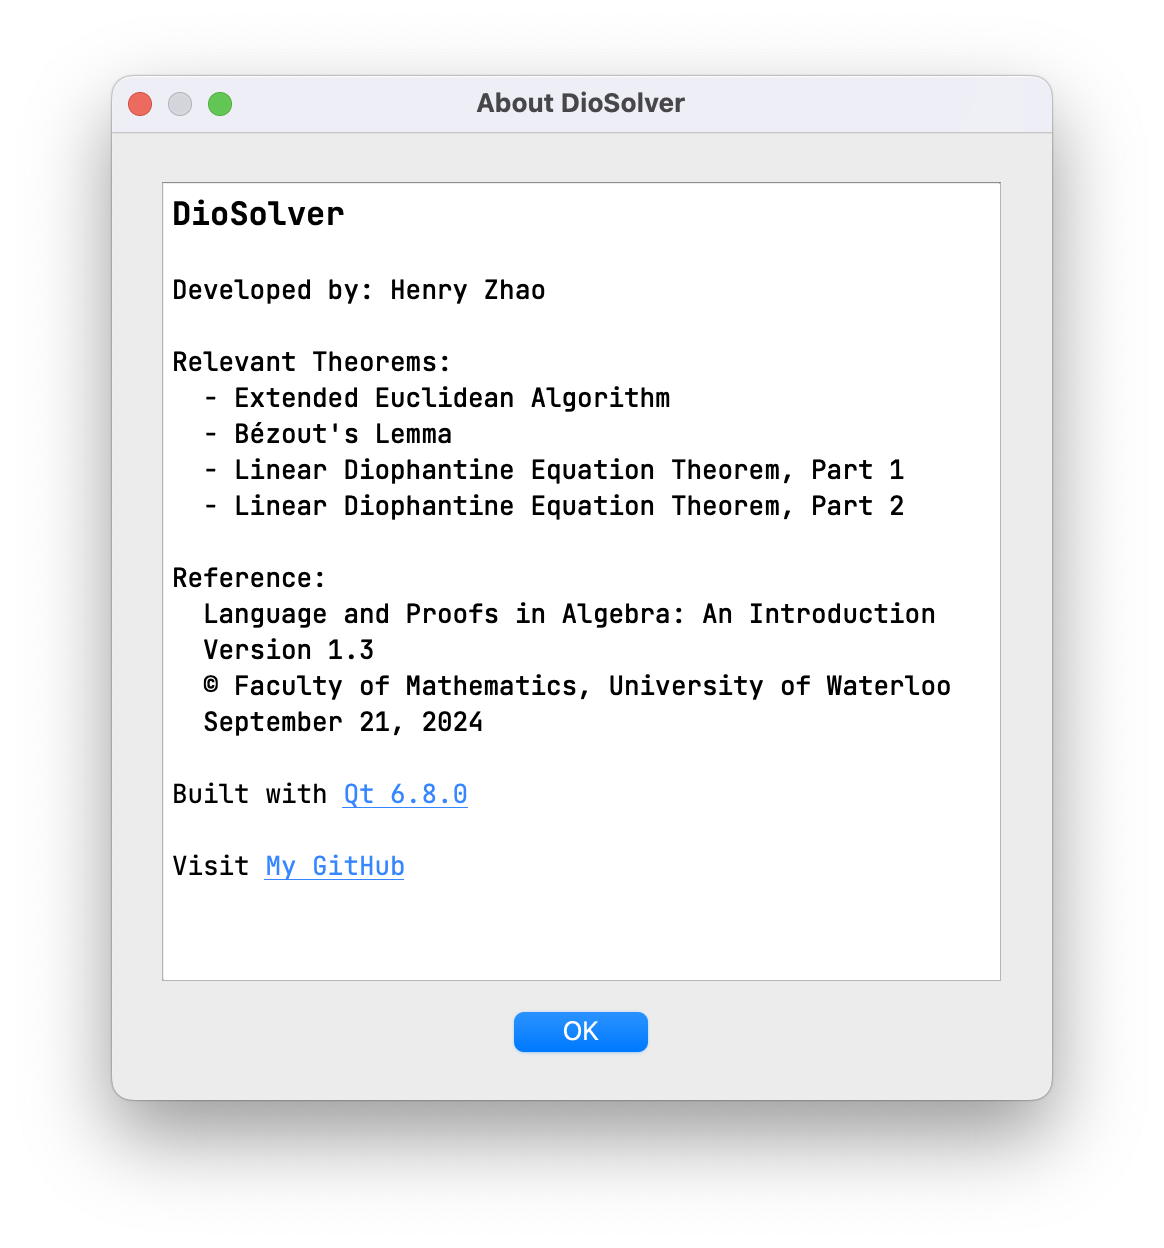
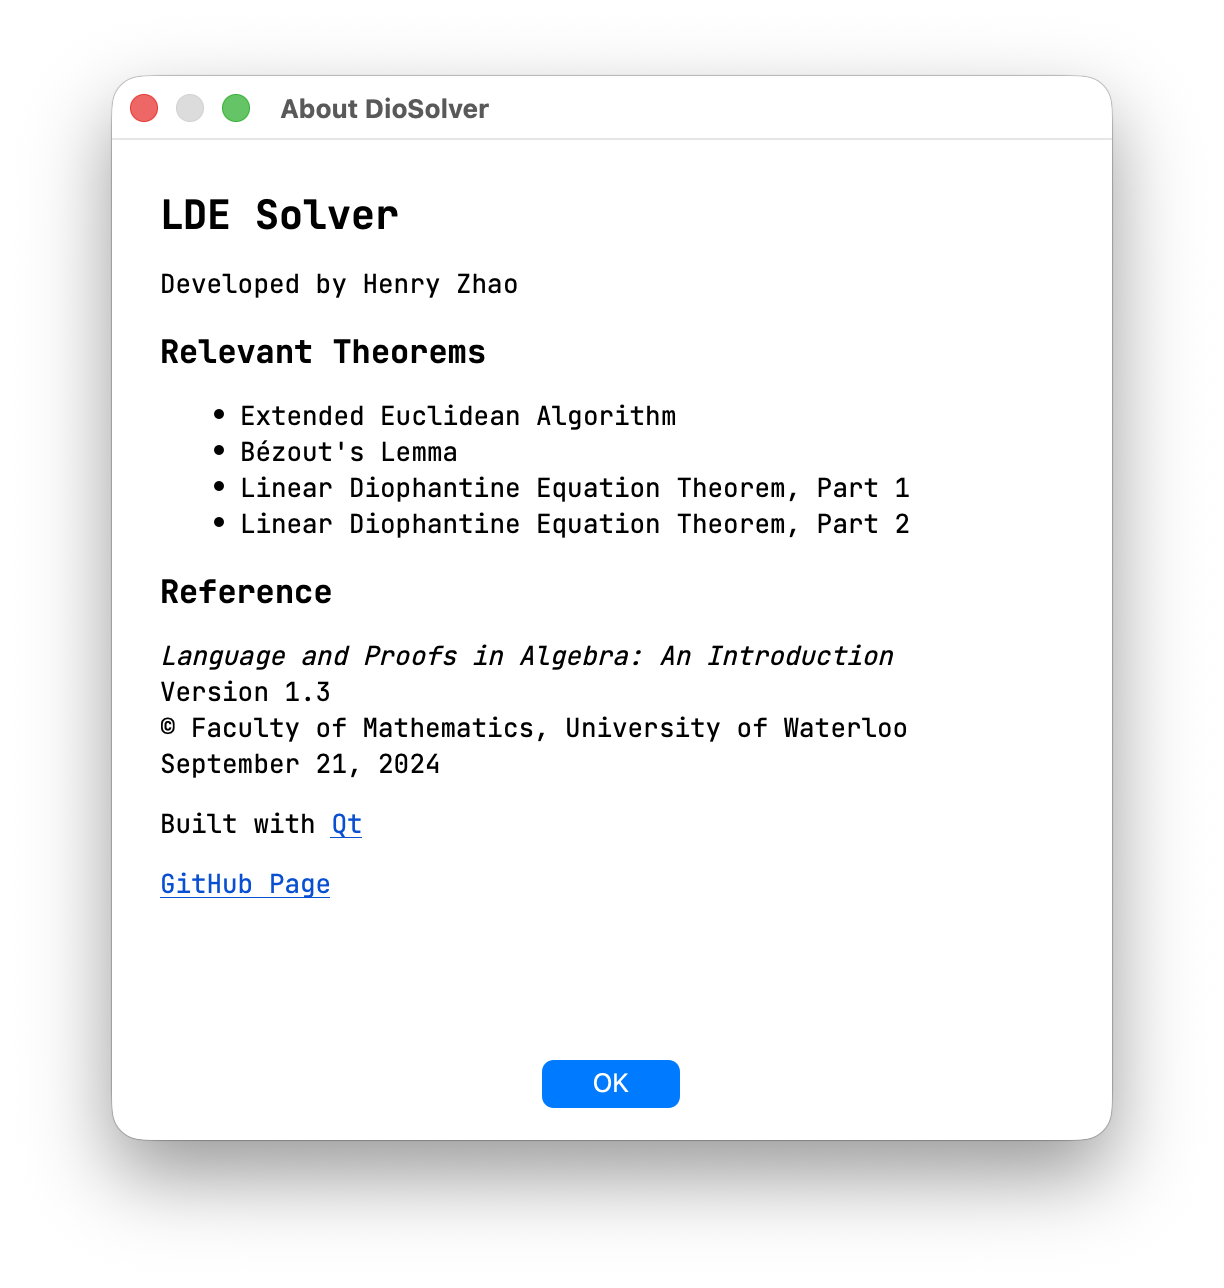
Fix custom interval selection and update screenshots

diff --git a/src/gui/lde_frame.cpp b/src/gui/lde_frame.cpp
@@ -42,9 +42,8 @@ Interval DomainBox::interval() const {
     case 4:
         return NONNEGATIVE_INTERVAL;
     default:
-        return INVALID_INTERVAL;
+        return intervalFrame->customInterval();
     }
-    return intervalFrame->customInterval();
 }
 
 IntervalFrame::IntervalFrame(DomainBox *domainBox)
